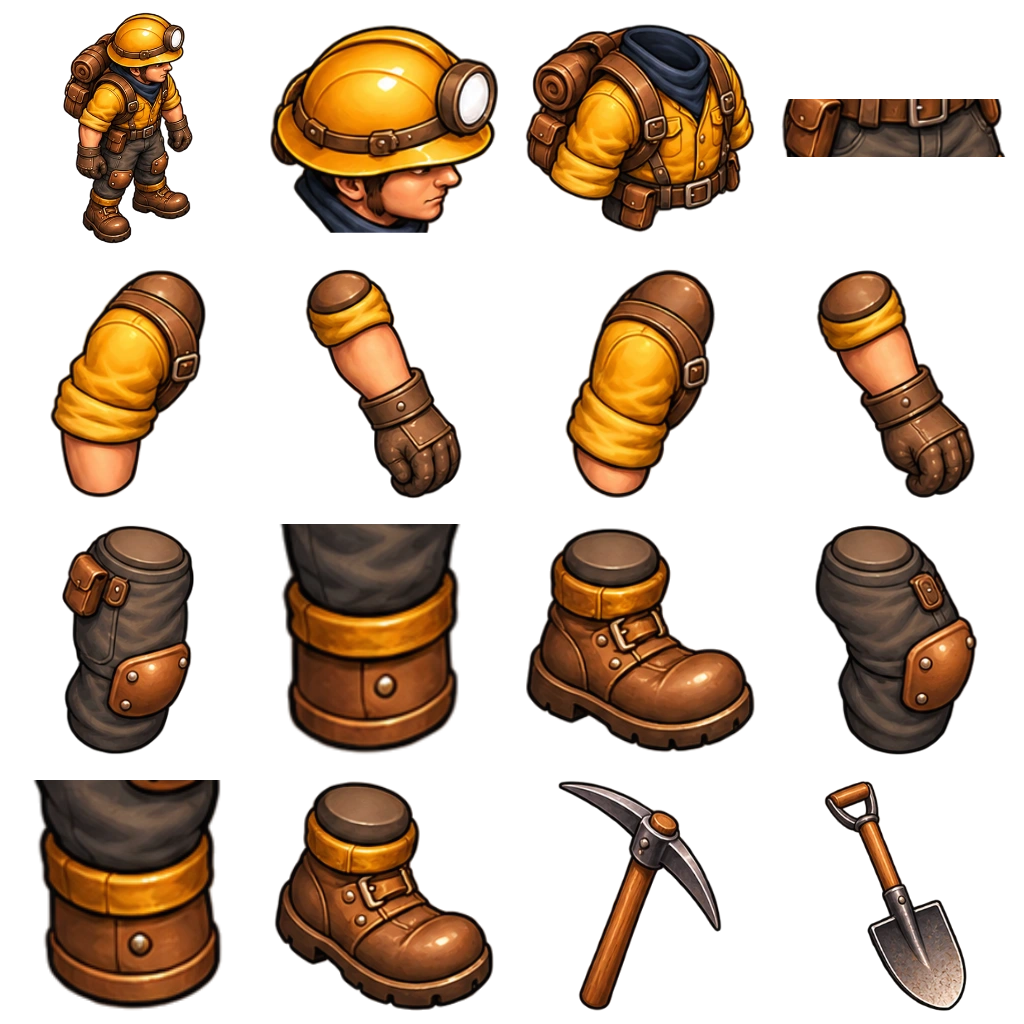
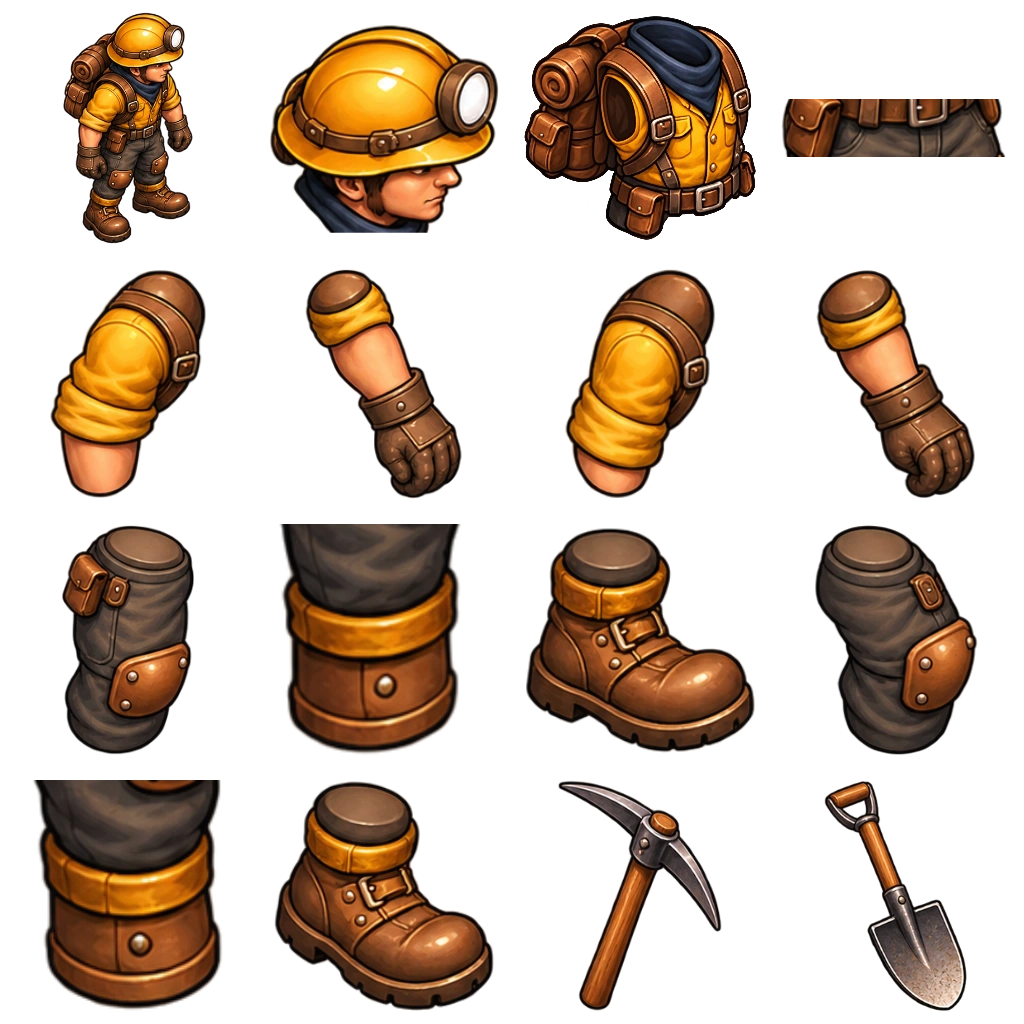
Fix duplicated miner sleeves and arm assembly in 0.13.15

Changed region(s): [[0.5, 0.0, 0.75, 0.25]]

diff --git a/games/deep-miners/client/miner-rig-layout.js b/games/deep-miners/client/miner-rig-layout.js
@@ -1,2 +1,2 @@
 // Continuous character rig; source art and joint anchors prepared by scripts/prepare-miner-rig.mjs.
-export const MINER_RIG={"south":{"asset":"assets/miner-rig-south.webp","parts":{"reference":{"x":50.66666666666666,"y":12,"w":154.66666666666669,"h":232,"a":[0.5,0.08],"b":[0.5,0.91]},"head":{"x":268,"y":23.436619718309856,"w":232,"h":209.1267605633803,"a":[0.5,0.08],"b":[0.5,0.91]},"torso":{"x":524,"y":26.33707865168539,"w":232,"h":203.32584269662922,"a":[0.5,0.08],"b":[0.5,0.91]},"pelvis":{"x":780,"y":91.49238578680203,"w":232,"h":73.01522842639594,"a":[0.5,0.08],"b":[0.5,0.91]},"upperNear":{"x":54.38461538461539,"y":268,"w":147.23076923076923,"h":232,"a":[0.66,0.08],"b":[0.4,0.91]},"lowerNear":{"x":276.39473684210526,"y":268,"w":215.21052631578948,"h":232,"a":[0.36,0.08],"b":[0.61,0.91]},"upperFar":{"x":566.3317535545024,"y":268,"w":147.33649289099526,"h":232,"a":[0.42,0.08],"b":[0.6,0.91]},"lowerFar":{"x":788.5066666666667,"y":268,"w":214.98666666666665,"h":232,"a":[0.64,0.08],"b":[0.39,0.91]},"thighNear":{"x":56.0698689956332,"y":524,"w":143.8602620087336,"h":231.99999999999997,"a":[0.5,0.08],"b":[0.5,0.8]},"shinNear":{"x":268,"y":525.0265486725664,"w":232,"h":229.94690265486727,"a":[0.5,0.08],"b":[0.5,0.91]},"bootNear":{"x":548.8571428571429,"y":524,"w":182.28571428571428,"h":232,"a":[0.5,0.08],"b":[0.5,0.91]},"thighFar":{"x":817.2279069767442,"y":524,"w":157.54418604651164,"h":232.00000000000003,"a":[0.5,0.08],"b":[0.5,0.8]},"shinFar":{"x":12,"y":781.0175438596491,"w":232,"h":229.96491228070175,"a":[0.5,0.08],"b":[0.5,0.91]},"bootFar":{"x":298.7755102040816,"y":780,"w":170.44897959183675,"h":232,"a":[0.5,0.08],"b":[0.5,0.91]},"pick":{"x":532.8888888888889,"y":780,"w":214.2222222222222,"h":232,"a":[0.5,0.08],"b":[0.5,0.91]},"shovel":{"x":828.961038961039,"y":780,"w":134.0779220779221,"h":232,"a":[0.5,0.08],"b":[0.5,0.91]}}},"east":{"asset":"assets/miner-rig-east.webp","parts":{"reference":{"x":62.19230769230769,"y":12,"w":131.6153846153846,"h":232,"a":[0.5,0.08],"b":[0.5,0.91]},"head":{"x":268,"y":23.262135922330103,"w":232,"h":209.4757281553398,"a":[0.5,0.08],"b":[0.5,0.91]},"torso":{"x":524,"y":22.875,"w":232,"h":210.25,"a":[0.5,0.08],"b":[0.5,0.91]},"pelvis":{"x":780,"y":98.55837563451777,"w":232,"h":58.88324873096447,"a":[0.5,0.08],"b":[0.5,0.91]},"upperNear":{"x":48.07655502392345,"y":268,"w":159.8468899521531,"h":232,"a":[0.66,0.08],"b":[0.4,0.91]},"lowerNear":{"x":304.60655737704917,"y":268,"w":158.78688524590163,"h":232,"a":[0.27,0.08],"b":[0.68,0.91]},"upperFar":{"x":563.2525252525253,"y":268,"w":153.49494949494948,"h":232,"a":[0.42,0.08],"b":[0.6,0.91]},"lowerFar":{"x":815.4159292035398,"y":268,"w":161.16814159292036,"h":232,"a":[0.27,0.08],"b":[0.68,0.91]},"thighNear":{"x":60.256,"y":524,"w":135.488,"h":232,"a":[0.5,0.08],"b":[0.5,0.8]},"shinNear":{"x":268,"y":524,"w":232,"h":232,"a":[0.5,0.08],"b":[0.5,0.91]},"bootNear":{"x":524,"y":526.2970297029703,"w":231.99999999999997,"h":227.4059405940594,"a":[0.5,0.08],"b":[0.5,0.91]},"thighFar":{"x":813.4323144104803,"y":524,"w":165.13537117903928,"h":231.99999999999997,"a":[0.5,0.08],"b":[0.5,0.8]},"shinFar":{"x":22.633333333333326,"y":780,"w":210.73333333333335,"h":232,"a":[0.5,0.08],"b":[0.5,0.91]},"bootFar":{"x":273.19402985074623,"y":780,"w":221.61194029850748,"h":232.00000000000003,"a":[0.5,0.08],"b":[0.5,0.91]},"pick":{"x":557.0249110320285,"y":780,"w":165.95017793594306,"h":232,"a":[0.5,0.08],"b":[0.5,0.91]},"shovel":{"x":823.8625,"y":780,"w":144.275,"h":232,"a":[0.5,0.08],"b":[0.5,0.91]}}},"north":{"asset":"assets/miner-rig-north.webp","parts":{"reference":{"x":50.554913294797686,"y":12,"w":154.89017341040463,"h":232,"a":[0.5,0.08],"b":[0.5,0.91]},"head":{"x":268,"y":16,"w":232,"h":224,"a":[0.5,0.08],"b":[0.5,0.91]},"torso":{"x":524,"y":26.445283018867926,"w":232,"h":203.10943396226415,"a":[0.5,0.08],"b":[0.5,0.91]},"pelvis":{"x":780,"y":94.06113537117903,"w":231.99999999999997,"h":67.87772925764192,"a":[0.5,0.08],"b":[0.5,0.91]},"upperNear":{"x":56.19047619047619,"y":268,"w":143.61904761904762,"h":232.00000000000003,"a":[0.66,0.08],"b":[0.4,0.91]},"lowerNear":{"x":316.5945945945946,"y":268,"w":134.8108108108108,"h":232,"a":[0.5,0.08],"b":[0.5,0.91]},"upperFar":{"x":570.7298578199052,"y":268,"w":138.5402843601896,"h":232,"a":[0.42,0.08],"b":[0.6,0.91]},"lowerFar":{"x":840.5892857142857,"y":268,"w":110.82142857142858,"h":232.00000000000003,"a":[0.5,0.08],"b":[0.5,0.91]},"thighNear":{"x":54.79111111111111,"y":524,"w":146.4177777777778,"h":232,"a":[0.5,0.08],"b":[0.5,0.8]},"shinNear":{"x":313.75555555555553,"y":524,"w":140.4888888888889,"h":232.00000000000003,"a":[0.5,0.08],"b":[0.5,0.91]},"bootNear":{"x":557.4845360824743,"y":524,"w":165.03092783505153,"h":232,"a":[0.5,0.08],"b":[0.5,0.91]},"thighFar":{"x":819.8914027149322,"y":524,"w":152.21719457013575,"h":232,"a":[0.5,0.08],"b":[0.5,0.8]},"shinFar":{"x":59.186440677966104,"y":780,"w":137.6271186440678,"h":231.99999999999997,"a":[0.5,0.08],"b":[0.5,0.91]},"bootFar":{"x":307.0673575129534,"y":780,"w":153.86528497409327,"h":232,"a":[0.5,0.08],"b":[0.5,0.91]},"pick":{"x":537.3525179856115,"y":780,"w":205.29496402877697,"h":232,"a":[0.5,0.08],"b":[0.5,0.91]},"shovel":{"x":852.7843137254902,"y":780,"w":86.4313725490196,"h":232,"a":[0.5,0.08],"b":[0.5,0.91]}}}};
+export const MINER_RIG={"south":{"asset":"assets/miner-rig-south.webp","parts":{"reference":{"x":50.66666666666666,"y":12,"w":154.66666666666669,"h":232,"a":[0.5,0.08],"b":[0.5,0.91]},"head":{"x":268,"y":23.436619718309856,"w":232,"h":209.1267605633803,"a":[0.5,0.08],"b":[0.5,0.91]},"torso":{"x":543.0871694417237,"y":12,"w":193.8256611165524,"h":232,"a":[0.5,0.08],"b":[0.5,0.91]},"pelvis":{"x":780,"y":91.49238578680203,"w":232,"h":73.01522842639594,"a":[0.5,0.08],"b":[0.5,0.91]},"upperNear":{"x":54.38461538461539,"y":268,"w":147.23076923076923,"h":232,"a":[0.66,0.08],"b":[0.4,0.91]},"lowerNear":{"x":276.39473684210526,"y":268,"w":215.21052631578948,"h":232,"a":[0.36,0.08],"b":[0.61,0.91]},"upperFar":{"x":566.3317535545024,"y":268,"w":147.33649289099526,"h":232,"a":[0.42,0.08],"b":[0.6,0.91]},"lowerFar":{"x":788.5066666666667,"y":268,"w":214.98666666666665,"h":232,"a":[0.64,0.08],"b":[0.39,0.91]},"thighNear":{"x":56.0698689956332,"y":524,"w":143.8602620087336,"h":231.99999999999997,"a":[0.5,0.08],"b":[0.5,0.8]},"shinNear":{"x":268,"y":525.0265486725664,"w":232,"h":229.94690265486727,"a":[0.5,0.08],"b":[0.5,0.91]},"bootNear":{"x":548.8571428571429,"y":524,"w":182.28571428571428,"h":232,"a":[0.5,0.08],"b":[0.5,0.91]},"thighFar":{"x":817.2279069767442,"y":524,"w":157.54418604651164,"h":232.00000000000003,"a":[0.5,0.08],"b":[0.5,0.8]},"shinFar":{"x":12,"y":781.0175438596491,"w":232,"h":229.96491228070175,"a":[0.5,0.08],"b":[0.5,0.91]},"bootFar":{"x":298.7755102040816,"y":780,"w":170.44897959183675,"h":232,"a":[0.5,0.08],"b":[0.5,0.91]},"pick":{"x":532.8888888888889,"y":780,"w":214.2222222222222,"h":232,"a":[0.5,0.08],"b":[0.5,0.91]},"shovel":{"x":828.961038961039,"y":780,"w":134.0779220779221,"h":232,"a":[0.5,0.08],"b":[0.5,0.91]}}},"east":{"asset":"assets/miner-rig-east.webp","parts":{"reference":{"x":62.19230769230769,"y":12,"w":131.6153846153846,"h":232,"a":[0.5,0.08],"b":[0.5,0.91]},"head":{"x":268,"y":23.262135922330103,"w":232,"h":209.4757281553398,"a":[0.5,0.08],"b":[0.5,0.91]},"torso":{"x":524,"y":15.796363636363637,"w":232,"h":224.40727272727273,"a":[0.5,0.08],"b":[0.5,0.91]},"pelvis":{"x":780,"y":98.55837563451777,"w":232,"h":58.88324873096447,"a":[0.5,0.08],"b":[0.5,0.91]},"upperNear":{"x":48.07655502392345,"y":268,"w":159.8468899521531,"h":232,"a":[0.66,0.08],"b":[0.4,0.91]},"lowerNear":{"x":304.60655737704917,"y":268,"w":158.78688524590163,"h":232,"a":[0.27,0.08],"b":[0.68,0.91]},"upperFar":{"x":563.2525252525253,"y":268,"w":153.49494949494948,"h":232,"a":[0.42,0.08],"b":[0.6,0.91]},"lowerFar":{"x":815.4159292035398,"y":268,"w":161.16814159292036,"h":232,"a":[0.27,0.08],"b":[0.68,0.91]},"thighNear":{"x":60.256,"y":524,"w":135.488,"h":232,"a":[0.5,0.08],"b":[0.5,0.8]},"shinNear":{"x":268,"y":524,"w":232,"h":232,"a":[0.5,0.08],"b":[0.5,0.91]},"bootNear":{"x":524,"y":526.2970297029703,"w":231.99999999999997,"h":227.4059405940594,"a":[0.5,0.08],"b":[0.5,0.91]},"thighFar":{"x":813.4323144104803,"y":524,"w":165.13537117903928,"h":231.99999999999997,"a":[0.5,0.08],"b":[0.5,0.8]},"shinFar":{"x":22.633333333333326,"y":780,"w":210.73333333333335,"h":232,"a":[0.5,0.08],"b":[0.5,0.91]},"bootFar":{"x":273.19402985074623,"y":780,"w":221.61194029850748,"h":232.00000000000003,"a":[0.5,0.08],"b":[0.5,0.91]},"pick":{"x":557.0249110320285,"y":780,"w":165.95017793594306,"h":232,"a":[0.5,0.08],"b":[0.5,0.91]},"shovel":{"x":823.8625,"y":780,"w":144.275,"h":232,"a":[0.5,0.08],"b":[0.5,0.91]}}},"north":{"asset":"assets/miner-rig-north.webp","parts":{"reference":{"x":50.554913294797686,"y":12,"w":154.89017341040463,"h":232,"a":[0.5,0.08],"b":[0.5,0.91]},"head":{"x":268,"y":16,"w":232,"h":224,"a":[0.5,0.08],"b":[0.5,0.91]},"torso":{"x":543.7278911564626,"y":12,"w":192.54421768707482,"h":232,"a":[0.5,0.08],"b":[0.5,0.91]},"pelvis":{"x":780,"y":94.06113537117903,"w":231.99999999999997,"h":67.87772925764192,"a":[0.5,0.08],"b":[0.5,0.91]},"upperNear":{"x":56.19047619047619,"y":268,"w":143.61904761904762,"h":232.00000000000003,"a":[0.66,0.08],"b":[0.4,0.91]},"lowerNear":{"x":316.5945945945946,"y":268,"w":134.8108108108108,"h":232,"a":[0.5,0.08],"b":[0.5,0.91]},"upperFar":{"x":570.7298578199052,"y":268,"w":138.5402843601896,"h":232,"a":[0.42,0.08],"b":[0.6,0.91]},"lowerFar":{"x":840.5892857142857,"y":268,"w":110.82142857142858,"h":232.00000000000003,"a":[0.5,0.08],"b":[0.5,0.91]},"thighNear":{"x":54.79111111111111,"y":524,"w":146.4177777777778,"h":232,"a":[0.5,0.08],"b":[0.5,0.8]},"shinNear":{"x":313.75555555555553,"y":524,"w":140.4888888888889,"h":232.00000000000003,"a":[0.5,0.08],"b":[0.5,0.91]},"bootNear":{"x":557.4845360824743,"y":524,"w":165.03092783505153,"h":232,"a":[0.5,0.08],"b":[0.5,0.91]},"thighFar":{"x":819.8914027149322,"y":524,"w":152.21719457013575,"h":232,"a":[0.5,0.08],"b":[0.5,0.8]},"shinFar":{"x":59.186440677966104,"y":780,"w":137.6271186440678,"h":231.99999999999997,"a":[0.5,0.08],"b":[0.5,0.91]},"bootFar":{"x":307.0673575129534,"y":780,"w":153.86528497409327,"h":232,"a":[0.5,0.08],"b":[0.5,0.91]},"pick":{"x":537.3525179856115,"y":780,"w":205.29496402877697,"h":232,"a":[0.5,0.08],"b":[0.5,0.91]},"shovel":{"x":852.7843137254902,"y":780,"w":86.4313725490196,"h":232,"a":[0.5,0.08],"b":[0.5,0.91]}}}};

diff --git a/games/deep-miners/client/miner-rig.js b/games/deep-miners/client/miner-rig.js
@@ -48,10 +48,14 @@ export function createMinerRig(assets,makeCanvas,seatedArt){
   leg(c,view,slot,m.legs[1],false);
   bone(c,view,'upperFar',slot,m.arms[1].shoulder,m.arms[1].elbow);bone(c,view,'lowerFar',slot,m.arms[1].elbow,m.arms[1].hand);
   leg(c,view,slot,m.legs[0],true);
+  piece(c,view,'pelvis',slot,{x:m.body.x,y:-28+m.body.y+31},8,[.5,.5],0,18);
+  // Keep the sleeveless trunk's aspect ratio. Stretching it to the old sleeve
+  // width would cover the moving shoulders and recreate a second arm outline.
+  piece(c,view,'torso',slot,m.body,26,[.5,.91],m.torsoAngle);
+  // The near arm covers its armhole; the far arm stays behind the trunk.
+  // In profile, drawing both arms behind the torso hides the entire near sleeve.
   tool(c,view,m,m.arms[0].hand);bone(c,view,'lowerNear',slot,m.arms[0].elbow,m.arms[0].hand);
   bone(c,view,'upperNear',slot,m.arms[0].shoulder,m.arms[0].elbow);
-  piece(c,view,'pelvis',slot,{x:m.body.x,y:-28+m.body.y+31},8,[.5,.5],0,18);
-  piece(c,view,'torso',slot,m.body,26,[.5,.91],m.torsoAngle,26);
   piece(c,view,'head',slot,m.head,22,[.5,.94],m.headAngle,24);
   c.restore();return m;
  }

diff --git a/games/deep-miners/client/index.html b/games/deep-miners/client/index.html
@@ -3,7 +3,7 @@
   <head>
     <meta charset="utf-8" />
     <meta name="viewport" content="width=device-width,initial-scale=1" />
-    <title>Deep Miners 0.13.14 — Exploration libre</title>
+    <title>Deep Miners 0.13.15 — Exploration libre</title>
     <link
       rel="icon"
       type="image/png"
@@ -40,7 +40,7 @@
           alt=""
           width="52"
           height="52"
-        />DEEP MINERS<span>EXPLORATION LIBRE · 0.13.14</span></a
+        />DEEP MINERS<span>EXPLORATION LIBRE · 0.13.15</span></a
       >
     </header>
     <main>
@@ -268,7 +268,7 @@
           >
             <div class="game-menu-heading">
               <div>
-                <span class="eyebrow">DEEP MINERS · 0.13.14</span>
+                <span class="eyebrow">DEEP MINERS · 0.13.15</span>
                 <h2 id="gameMenuTitle">Menu du jeu</h2>
               </div>
               <button id="resumeGame" class="primary" type="button">

diff --git a/games/deep-miners/client/miner-motion.js b/games/deep-miners/client/miner-motion.js
@@ -33,7 +33,9 @@ export function minerMotion(player,pose){
  }
  const arms=[];
  for(let i=0;i<2;i++){
-  const sign=i?-nearSign:nearSign,shoulder=point(body.x+(side?(i?4:-2):sign*10),-48+bob+(side&&i?-1.5:0));
+  // Rear arm sockets sit under the backpack straps of the sleeveless trunk.
+  // The old wider sockets relied on the painted sleeves to hide a small gap.
+  const sign=i?-nearSign:nearSign,shoulder=point(body.x+(side?(i?4:-2):sign*(back?8.5:10)),-48+bob+(side&&i?-1.5:0));
   const swing=Math.sin(phase*TAU+i*Math.PI)*(3.6+run*3.8)*amount;
   const hand=side?point(shoulder.x+2-swing,shoulder.y+22-run*4*amount):point(shoulder.x+sign*(1.3+run*1.4*amount),shoulder.y+22-swing*.4-run*3*amount);
   if(i===0&&held&&(mining||shovelling)){

diff --git a/docs/deep-miners-0.13.15.md b/docs/deep-miners-0.13.15.md
@@ -1,0 +1,19 @@
+# Deep Miners 0.13.15 — raccord des bras
+
+Le buste du mineur articulé contenait encore des manches peintes. Les bras animés se superposaient à ces manches, créant un double contour aux épaules. Les trois bustes sont remplacés par des versions sans manches, avec le même costume, les sangles et le sac. Les manches appartiennent désormais uniquement aux bras articulés.
+
+Le rendu conserve les proportions du buste sans l'étirer à l'ancienne largeur incluant les manches. Le bras proche passe devant son emmanchure ; le bras éloigné reste derrière. Les attaches de dos sont placées sous les sangles pour éviter une ouverture au niveau de l'épaule pendant la course. La préparation des planches exige les trois bustes nettoyés et ne peut plus réutiliser silencieusement les anciens bustes à manches.
+
+Les 45 rectangles des autres éléments restent identiques. Les déplacements, la foulée, les jambes, les collisions, les règles du jeu et les sauvegardes sont conservés. Les trois textures préparées totalisent 706 014 octets, sans ajout de texture chargée.
+
+## Vérification ciblée
+
+- Nouveau contrôle de `tests/miner-arm-layers.test.mjs` : ordre des bras et du buste, maintien des proportions dans les quatre directions.
+- 576 dessins natifs avec mains vides, pioche et pelle, quatre directions et variantes de couleur : aucun élément opaque détaché. Inspection des bustes seuls et des personnages assemblés, comparaison animée avec la version 0.13.14.
+- Captures avec le vrai moteur Canvas et ses ressources, dans une mine créée en mémoire. Il ne s'agit pas d'une session interactive Electron ou multijoueur Internet. Aucune sauvegarde réelle utilisée.
+
+Les anciennes suites de tests n'ont pas été relancées.
+
+Sources PNG, consignes exactes d'édition imagegen, comparaison animée et rapports conservés dans `outputs/Personnage-Bras-2026-10-21/` de l'espace de travail. Préparation : `node scripts/prepare-miner-rig.mjs <planches-originales> <bustes-sans-manches>` ; ce second dossier contient `torso-south.png`, `torso-east.png`, `torso-north.png`.
+
+Distribution : https://github.com/GuillaumeFischer/Nexum/releases/tag/game-deep-miners-v0.13.15
